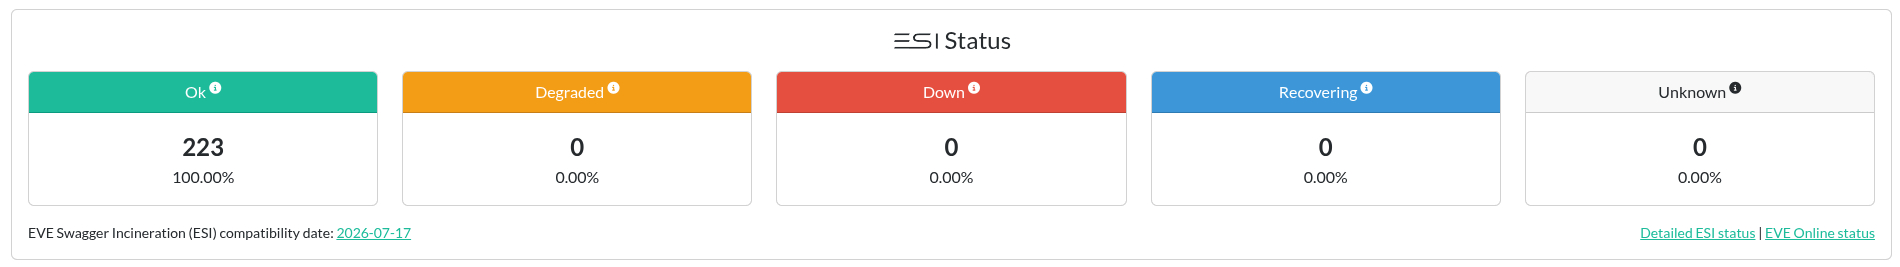
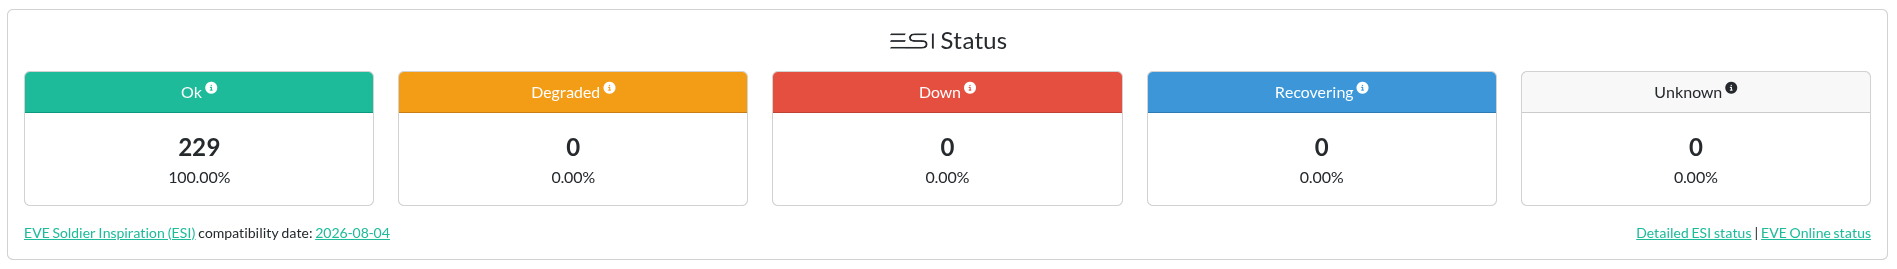
[ADD] Link to ESI naming history

diff --git a/esistatus/templates/esistatus/partials/dashboard-widget/esi-status.html b/esistatus/templates/esistatus/partials/dashboard-widget/esi-status.html
@@ -42,14 +42,21 @@
             {% if compatibility_date %}
                 <div class="text-start float-start">
                     <p class="small mb-0">
-                        {% blocktranslate %}{{ esi_name }} compatibility date{% endblocktranslate %}:
+                        <a
+                            href="https://esi.evetech.net/meta/name?compatibility_date={{ compatibility_date }}"
+                            target="_blank"
+                            rel="noopener noreferer"
+                            referrerpolicy="no-referrer"
+                        >{{ esi_name }}</a>
+
+                        {% blocktranslate %}compatibility date{% endblocktranslate %}:
+
                         <a
                             href="https://esi.evetech.net/meta/compatibility-dates"
                             target="_blank"
                             rel="noopener noreferer"
-                        >
-                            {{ compatibility_date }}
-                        </a>
+                            referrerpolicy="no-referrer"
+                        >{{ compatibility_date }}</a>
                     </p>
                 </div>
             {% endif %}

diff --git a/esistatus/templates/esistatus/partials/index/esi-status.html b/esistatus/templates/esistatus/partials/index/esi-status.html
@@ -31,14 +31,21 @@
     {% if compatibility_date %}
         <div class="text-end">
             <p class="small mb-0">
-                {% blocktranslate %}{{ esi_name }} compatibility date{% endblocktranslate %}:
+                <a
+                    href="https://esi.evetech.net/meta/name?compatibility_date={{ compatibility_date }}"
+                    target="_blank"
+                    rel="noopener noreferer"
+                    referrerpolicy="no-referrer"
+                >{{ esi_name }}</a>
+
+                {% blocktranslate %}compatibility date{% endblocktranslate %}:
+
                 <a
                     href="https://esi.evetech.net/meta/compatibility-dates"
                     target="_blank"
                     rel="noopener noreferer"
-                >
-                    {{ compatibility_date }}
-                </a>
+                    referrerpolicy="no-referrer"
+                >{{ compatibility_date }}</a>
             </p>
         </div>
     {% endif %}

diff --git a/CHANGELOG.md b/CHANGELOG.md
@@ -37,6 +37,10 @@ Section Order:
 
 <!-- Your changes go here -->
 
+### Added
+
+- Link to ESI naming history
+
 ## [4.1.1] - 2026-08-03
 
 ### Changed
